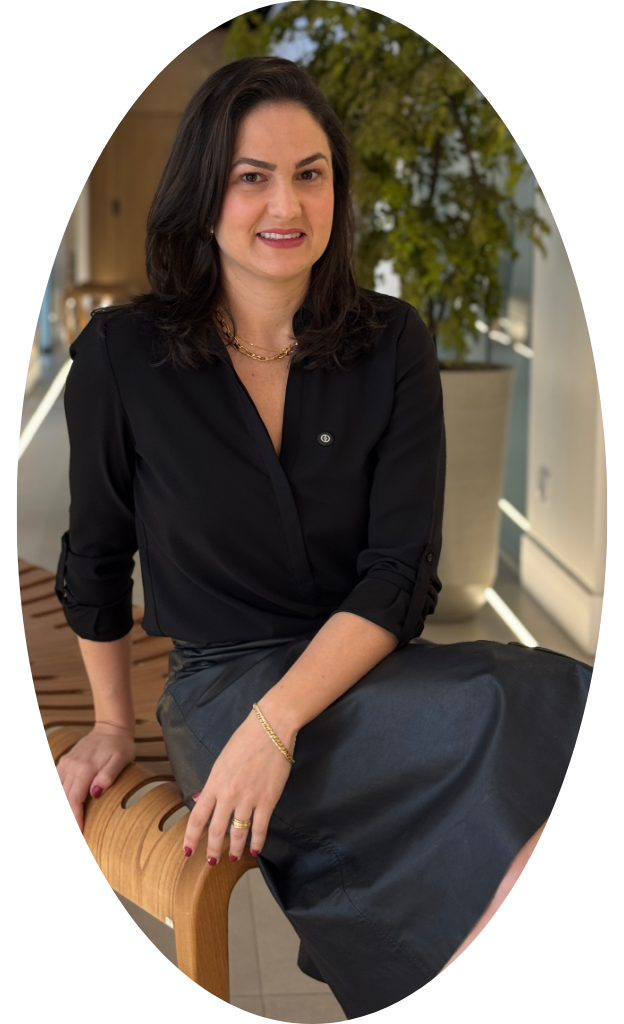
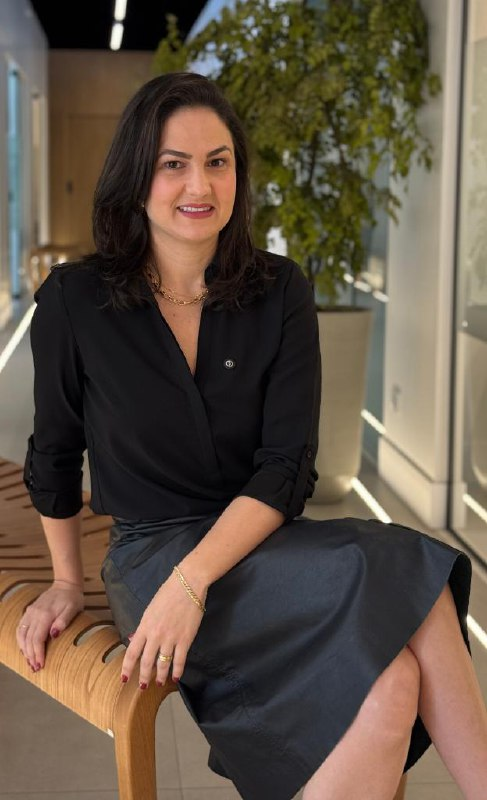
feat: nova foto com efeito original

diff --git a/css/style.css b/css/style.css
@@ -350,9 +350,10 @@ p {
 
 .about-image img {
     max-width: 420px;
-    border-radius: 0;
     box-shadow: none;
-    object-fit: contain;
+    object-fit: cover;
+    border-radius: 20px;
+    box-shadow: 0 15px 40px rgba(0, 0, 0, 0.15);
 }
 
 .about-text h2 {
@@ -426,7 +427,6 @@ p {
     width: 70px;
     height: 70px;
     background: rgba(255, 255, 255, 0.2);
-    border-radius: 0;
     display: flex;
     align-items: center;
     justify-content: center;
@@ -477,7 +477,6 @@ p {
 
 .speech-bubble {
     background: var(--white);
-    border-radius: 0;
     padding: 2rem;
     box-shadow: 0 8px 30px rgba(0, 0, 0, 0.08);
     position: relative;
@@ -615,7 +614,6 @@ footer .credits {
         background: rgba(255, 255, 255, 0.5);
         backdrop-filter: blur(10px);
         -webkit-backdrop-filter: blur(10px);
-        border-radius: 0;
         padding: 2rem 1.5rem;
         box-shadow: 0 8px 32px rgba(0, 0, 0, 0.1);
         border: 1px solid rgba(255, 255, 255, 0.3);
@@ -704,7 +702,9 @@ footer .credits {
 .reel-item video {
     width: 100%;
     height: 100%;
-    object-fit: contain;
+    object-fit: cover;
+    border-radius: 20px;
+    box-shadow: 0 15px 40px rgba(0, 0, 0, 0.15);
     /* Preenche tudo sem distorcer */
     cursor: pointer;
 }
